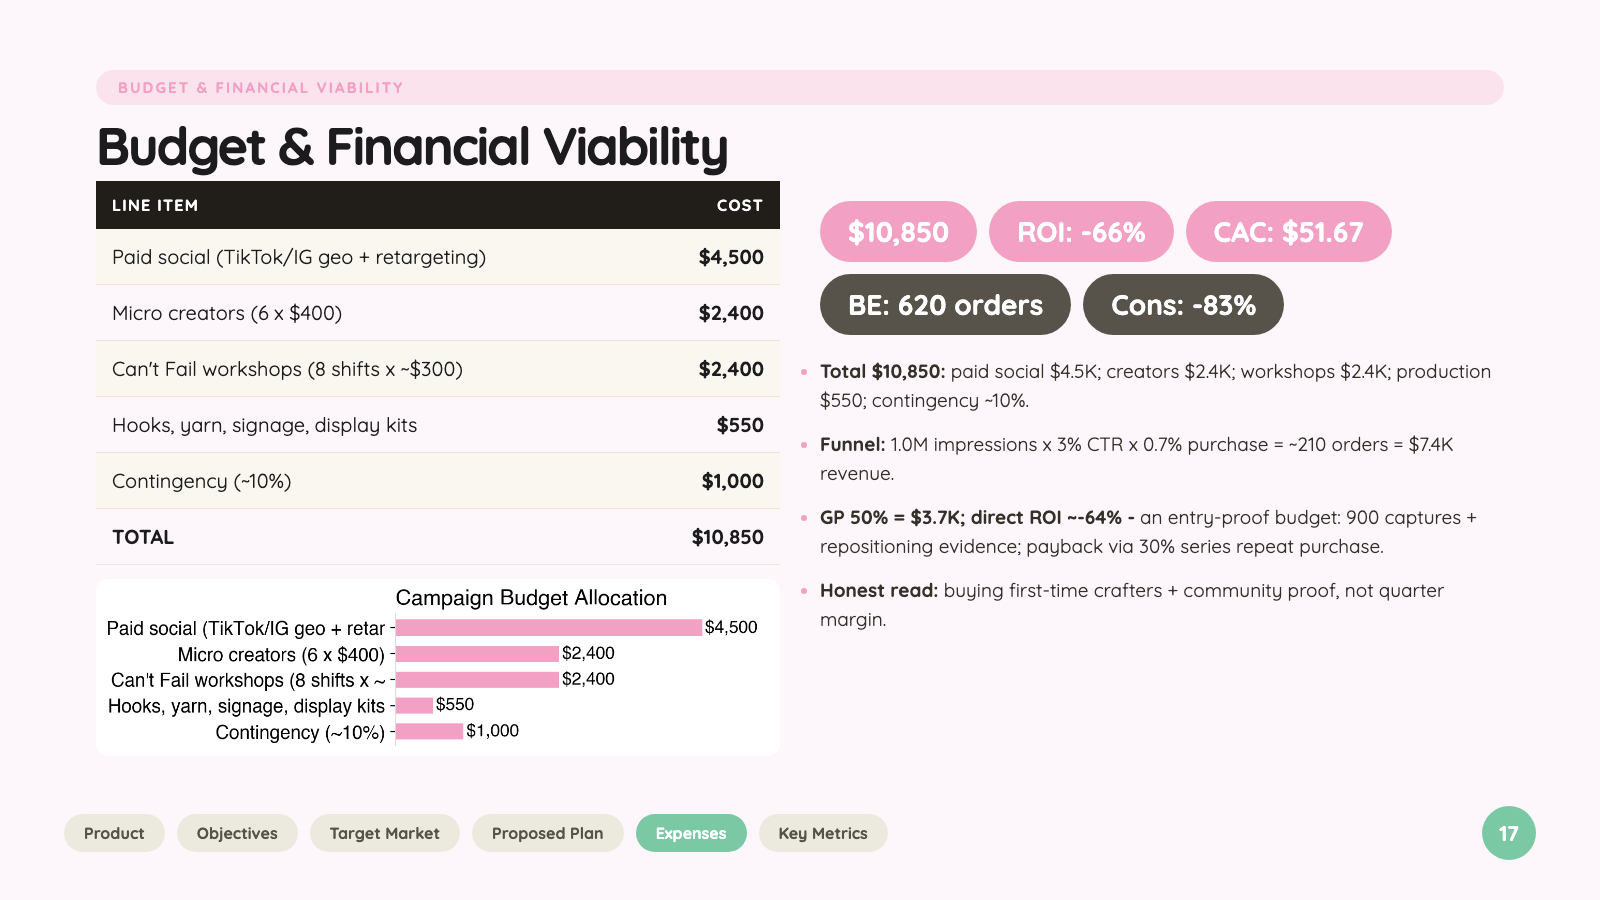
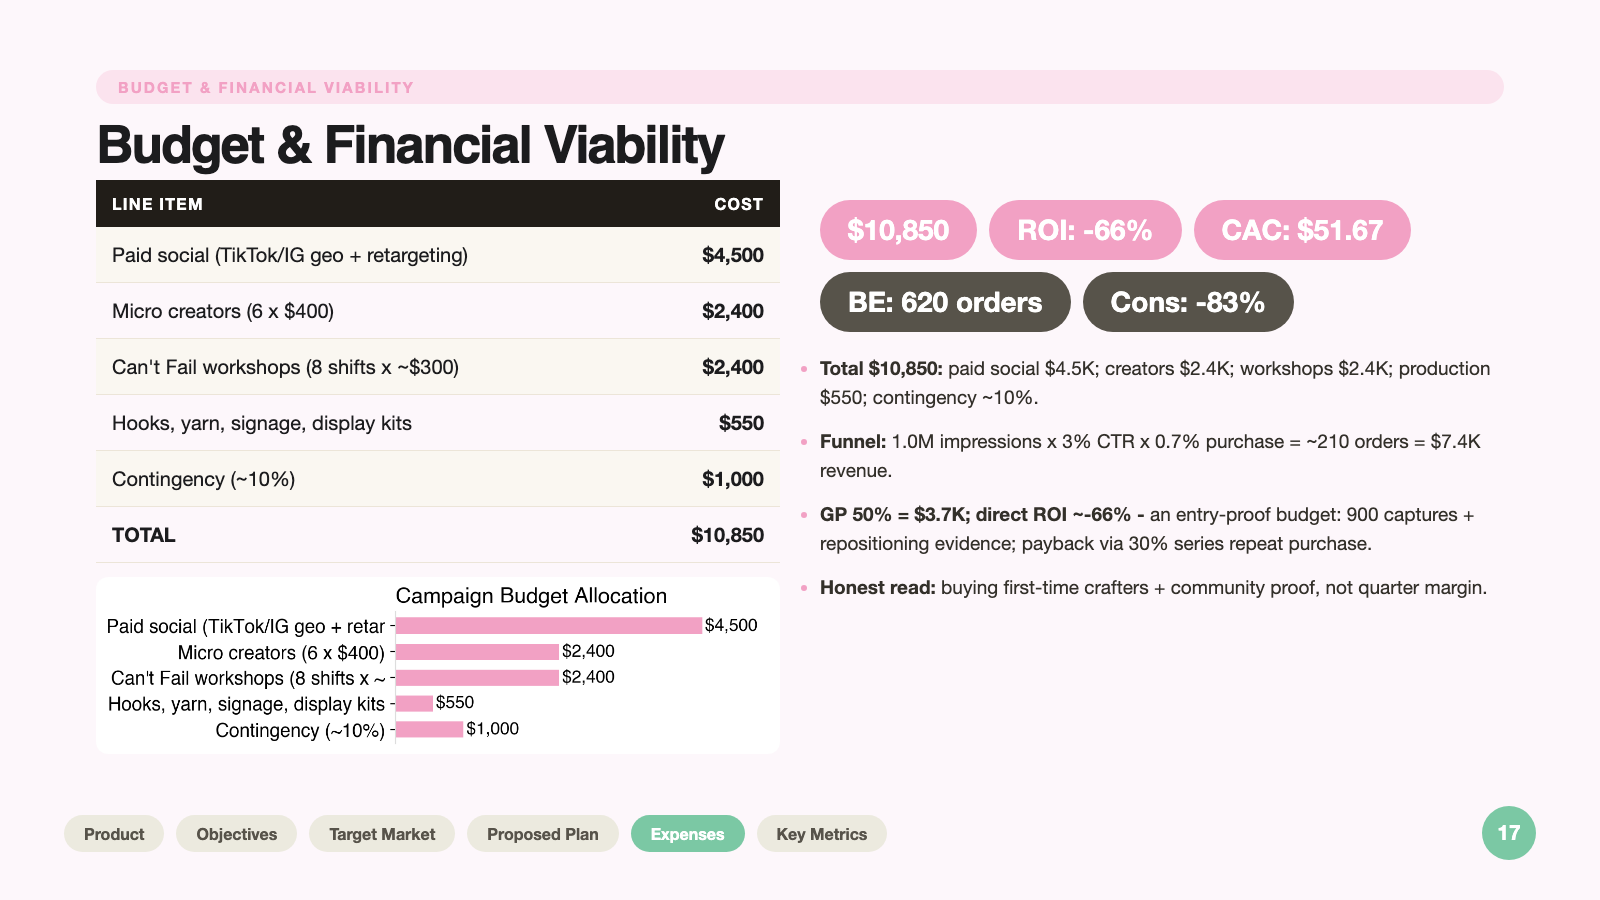
v21 grade fixes: 210 orders = $7.4K (not $74K), ROI -66% consistency, schedule compressed to day-45

diff --git a/pipeline/runs/v21/imcp/p16.html b/pipeline/runs/v21/imcp/p16.html
@@ -68,4 +68,4 @@ img.vis{max-width:100%;max-height:560px;border-radius:16px;object-fit:contain;bo
 .tag{display:inline-block;background:var(--brand);color:#fff;border-radius:999px;padding:5px 14px;font-size:14px;font-weight:800;letter-spacing:.06em}
 .mono{font-family:'SF Mono',Menlo,monospace}
 </style></head>
-<body class="style-soft"><div class="page" style="background:#fdf7fb"><div class="frame"></div><div class="kick">45-DAY SCHEDULE</div><div class="h1">45-Day Schedule: Can&#x27;t Fail Club</div><div class="tbar"></div><table class="tb" style="margin-top:20px"><tr><th>PROGRAM</th><th>WEEKS 1-7</th><th>OWNER</th></tr><tr><td style="font-weight:700">Can&#x27;t Fail Workshops</td><td><span style="display:inline-block;width:52px;height:26px;line-height:26px;text-align:center;border-radius:6px;background:var(--brand);color:#fff;font-size:14px;font-weight:700;margin-right:4px">1</span><span style="display:inline-block;width:52px;height:26px;line-height:26px;text-align:center;border-radius:6px;background:var(--brand);color:#fff;font-size:14px;font-weight:700;margin-right:4px">2</span><span style="display:inline-block;width:52px;height:26px;line-height:26px;text-align:center;border-radius:6px;background:var(--brand);color:#fff;font-size:14px;font-weight:700;margin-right:4px">3</span><span style="display:inline-block;width:52px;height:26px;line-height:26px;text-align:center;border-radius:6px;background:var(--brand);color:#fff;font-size:14px;font-weight:700;margin-right:4px">4</span><span style="display:inline-block;width:52px;height:26px;line-height:26px;text-align:center;border-radius:6px;background:var(--brand);color:#fff;font-size:14px;font-weight:700;margin-right:4px">5</span><span style="display:inline-block;width:52px;height:26px;line-height:26px;text-align:center;border-radius:6px;background:#efe9dd;color:#b3aa99;font-size:14px;margin-right:4px">6</span><span style="display:inline-block;width:52px;height:26px;line-height:26px;text-align:center;border-radius:6px;background:#efe9dd;color:#b3aa99;font-size:14px;margin-right:4px">7</span></td><td style="font-size:17px">Nino (field)</td></tr><tr><td style="font-weight:700">Stitch School</td><td><span style="display:inline-block;width:52px;height:26px;line-height:26px;text-align:center;border-radius:6px;background:var(--brand);color:#fff;font-size:14px;font-weight:700;margin-right:4px">1</span><span style="display:inline-block;width:52px;height:26px;line-height:26px;text-align:center;border-radius:6px;background:var(--brand);color:#fff;font-size:14px;font-weight:700;margin-right:4px">2</span><span style="display:inline-block;width:52px;height:26px;line-height:26px;text-align:center;border-radius:6px;background:var(--brand);color:#fff;font-size:14px;font-weight:700;margin-right:4px">3</span><span style="display:inline-block;width:52px;height:26px;line-height:26px;text-align:center;border-radius:6px;background:var(--brand);color:#fff;font-size:14px;font-weight:700;margin-right:4px">4</span><span style="display:inline-block;width:52px;height:26px;line-height:26px;text-align:center;border-radius:6px;background:var(--brand);color:#fff;font-size:14px;font-weight:700;margin-right:4px">5</span><span style="display:inline-block;width:52px;height:26px;line-height:26px;text-align:center;border-radius:6px;background:var(--brand);color:#fff;font-size:14px;font-weight:700;margin-right:4px">6</span><span style="display:inline-block;width:52px;height:26px;line-height:26px;text-align:center;border-radius:6px;background:#efe9dd;color:#b3aa99;font-size:14px;margin-right:4px">7</span></td><td style="font-size:17px">Santhosh (social)</td></tr><tr><td style="font-weight:700">Show Your Wooble</td><td><span style="display:inline-block;width:52px;height:26px;line-height:26px;text-align:center;border-radius:6px;background:#efe9dd;color:#b3aa99;font-size:14px;margin-right:4px">1</span><span style="display:inline-block;width:52px;height:26px;line-height:26px;text-align:center;border-radius:6px;background:var(--brand);color:#fff;font-size:14px;font-weight:700;margin-right:4px">2</span><span style="display:inline-block;width:52px;height:26px;line-height:26px;text-align:center;border-radius:6px;background:var(--brand);color:#fff;font-size:14px;font-weight:700;margin-right:4px">3</span><span style="display:inline-block;width:52px;height:26px;line-height:26px;text-align:center;border-radius:6px;background:var(--brand);color:#fff;font-size:14px;font-weight:700;margin-right:4px">4</span><span style="display:inline-block;width:52px;height:26px;line-height:26px;text-align:center;border-radius:6px;background:var(--brand);color:#fff;font-size:14px;font-weight:700;margin-right:4px">5</span><span style="display:inline-block;width:52px;height:26px;line-height:26px;text-align:center;border-radius:6px;background:var(--brand);color:#fff;font-size:14px;font-weight:700;margin-right:4px">6</span><span style="display:inline-block;width:52px;height:26px;line-height:26px;text-align:center;border-radius:6px;background:#efe9dd;color:#b3aa99;font-size:14px;margin-right:4px">7</span></td><td style="font-size:17px">Santhosh (social)</td></tr><tr><td style="font-weight:700">Gift a Wooble</td><td><span style="display:inline-block;width:52px;height:26px;line-height:26px;text-align:center;border-radius:6px;background:#efe9dd;color:#b3aa99;font-size:14px;margin-right:4px">1</span><span style="display:inline-block;width:52px;height:26px;line-height:26px;text-align:center;border-radius:6px;background:#efe9dd;color:#b3aa99;font-size:14px;margin-right:4px">2</span><span style="display:inline-block;width:52px;height:26px;line-height:26px;text-align:center;border-radius:6px;background:var(--brand);color:#fff;font-size:14px;font-weight:700;margin-right:4px">3</span><span style="display:inline-block;width:52px;height:26px;line-height:26px;text-align:center;border-radius:6px;background:var(--brand);color:#fff;font-size:14px;font-weight:700;margin-right:4px">4</span><span style="display:inline-block;width:52px;height:26px;line-height:26px;text-align:center;border-radius:6px;background:var(--brand);color:#fff;font-size:14px;font-weight:700;margin-right:4px">5</span><span style="display:inline-block;width:52px;height:26px;line-height:26px;text-align:center;border-radius:6px;background:var(--brand);color:#fff;font-size:14px;font-weight:700;margin-right:4px">6</span><span style="display:inline-block;width:52px;height:26px;line-height:26px;text-align:center;border-radius:6px;background:#efe9dd;color:#b3aa99;font-size:14px;margin-right:4px">7</span></td><td style="font-size:17px">Rafsan (web)</td></tr></table><div class="body" style="margin-top:20px;font-size:20px"><li class=""><b>Pre-work:</b> venue bookings, kit stock, creator outreach | W1: Stitch School + workshop 1 live.</li><li class=""><b>W2-W3:</b> workshops 2-5; #cantfailclub UGC opens; retargeting on scanners.</li><li class=""><b>W4-W5:</b> Gift a Wooble push; workshops 6-8; UGC features.</li><li class=""><b>W6-W7:</b> last-chance SMS; post-survey; read vs holdout.</li></div><div class="navbar"><div class="navpills"><span class="navp">Product</span><span class="navp">Objectives</span><span class="navp">Target Market</span><span class="navp on">Proposed Plan</span><span class="navp">Expenses</span><span class="navp">Key Metrics</span></div><div class="pgcirc">16</div></div></div></body></html>
+<body class="style-soft"><div class="page" style="background:#fdf7fb"><div class="frame"></div><div class="kick">45-DAY SCHEDULE</div><div class="h1">45-Day Schedule: Can&#x27;t Fail Club</div><div class="tbar"></div><table class="tb" style="margin-top:20px"><tr><th>PROGRAM</th><th>WEEKS 1-7</th><th>OWNER</th></tr><tr><td style="font-weight:700">Can&#x27;t Fail Workshops</td><td><span style="display:inline-block;width:52px;height:26px;line-height:26px;text-align:center;border-radius:6px;background:var(--brand);color:#fff;font-size:14px;font-weight:700;margin-right:4px">1</span><span style="display:inline-block;width:52px;height:26px;line-height:26px;text-align:center;border-radius:6px;background:var(--brand);color:#fff;font-size:14px;font-weight:700;margin-right:4px">2</span><span style="display:inline-block;width:52px;height:26px;line-height:26px;text-align:center;border-radius:6px;background:var(--brand);color:#fff;font-size:14px;font-weight:700;margin-right:4px">3</span><span style="display:inline-block;width:52px;height:26px;line-height:26px;text-align:center;border-radius:6px;background:var(--brand);color:#fff;font-size:14px;font-weight:700;margin-right:4px">4</span><span style="display:inline-block;width:52px;height:26px;line-height:26px;text-align:center;border-radius:6px;background:var(--brand);color:#fff;font-size:14px;font-weight:700;margin-right:4px">5</span><span style="display:inline-block;width:52px;height:26px;line-height:26px;text-align:center;border-radius:6px;background:#efe9dd;color:#b3aa99;font-size:14px;margin-right:4px">6</span><span style="display:inline-block;width:52px;height:26px;line-height:26px;text-align:center;border-radius:6px;background:#efe9dd;color:#b3aa99;font-size:14px;margin-right:4px">7</span></td><td style="font-size:17px">Nino (field)</td></tr><tr><td style="font-weight:700">Stitch School</td><td><span style="display:inline-block;width:52px;height:26px;line-height:26px;text-align:center;border-radius:6px;background:var(--brand);color:#fff;font-size:14px;font-weight:700;margin-right:4px">1</span><span style="display:inline-block;width:52px;height:26px;line-height:26px;text-align:center;border-radius:6px;background:var(--brand);color:#fff;font-size:14px;font-weight:700;margin-right:4px">2</span><span style="display:inline-block;width:52px;height:26px;line-height:26px;text-align:center;border-radius:6px;background:var(--brand);color:#fff;font-size:14px;font-weight:700;margin-right:4px">3</span><span style="display:inline-block;width:52px;height:26px;line-height:26px;text-align:center;border-radius:6px;background:var(--brand);color:#fff;font-size:14px;font-weight:700;margin-right:4px">4</span><span style="display:inline-block;width:52px;height:26px;line-height:26px;text-align:center;border-radius:6px;background:var(--brand);color:#fff;font-size:14px;font-weight:700;margin-right:4px">5</span><span style="display:inline-block;width:52px;height:26px;line-height:26px;text-align:center;border-radius:6px;background:var(--brand);color:#fff;font-size:14px;font-weight:700;margin-right:4px">6</span><span style="display:inline-block;width:52px;height:26px;line-height:26px;text-align:center;border-radius:6px;background:#efe9dd;color:#b3aa99;font-size:14px;margin-right:4px">7</span></td><td style="font-size:17px">Santhosh (social)</td></tr><tr><td style="font-weight:700">Show Your Wooble</td><td><span style="display:inline-block;width:52px;height:26px;line-height:26px;text-align:center;border-radius:6px;background:#efe9dd;color:#b3aa99;font-size:14px;margin-right:4px">1</span><span style="display:inline-block;width:52px;height:26px;line-height:26px;text-align:center;border-radius:6px;background:var(--brand);color:#fff;font-size:14px;font-weight:700;margin-right:4px">2</span><span style="display:inline-block;width:52px;height:26px;line-height:26px;text-align:center;border-radius:6px;background:var(--brand);color:#fff;font-size:14px;font-weight:700;margin-right:4px">3</span><span style="display:inline-block;width:52px;height:26px;line-height:26px;text-align:center;border-radius:6px;background:var(--brand);color:#fff;font-size:14px;font-weight:700;margin-right:4px">4</span><span style="display:inline-block;width:52px;height:26px;line-height:26px;text-align:center;border-radius:6px;background:var(--brand);color:#fff;font-size:14px;font-weight:700;margin-right:4px">5</span><span style="display:inline-block;width:52px;height:26px;line-height:26px;text-align:center;border-radius:6px;background:var(--brand);color:#fff;font-size:14px;font-weight:700;margin-right:4px">6</span><span style="display:inline-block;width:52px;height:26px;line-height:26px;text-align:center;border-radius:6px;background:#efe9dd;color:#b3aa99;font-size:14px;margin-right:4px">7</span></td><td style="font-size:17px">Santhosh (social)</td></tr><tr><td style="font-weight:700">Gift a Wooble</td><td><span style="display:inline-block;width:52px;height:26px;line-height:26px;text-align:center;border-radius:6px;background:#efe9dd;color:#b3aa99;font-size:14px;margin-right:4px">1</span><span style="display:inline-block;width:52px;height:26px;line-height:26px;text-align:center;border-radius:6px;background:#efe9dd;color:#b3aa99;font-size:14px;margin-right:4px">2</span><span style="display:inline-block;width:52px;height:26px;line-height:26px;text-align:center;border-radius:6px;background:var(--brand);color:#fff;font-size:14px;font-weight:700;margin-right:4px">3</span><span style="display:inline-block;width:52px;height:26px;line-height:26px;text-align:center;border-radius:6px;background:var(--brand);color:#fff;font-size:14px;font-weight:700;margin-right:4px">4</span><span style="display:inline-block;width:52px;height:26px;line-height:26px;text-align:center;border-radius:6px;background:var(--brand);color:#fff;font-size:14px;font-weight:700;margin-right:4px">5</span><span style="display:inline-block;width:52px;height:26px;line-height:26px;text-align:center;border-radius:6px;background:var(--brand);color:#fff;font-size:14px;font-weight:700;margin-right:4px">6</span><span style="display:inline-block;width:52px;height:26px;line-height:26px;text-align:center;border-radius:6px;background:#efe9dd;color:#b3aa99;font-size:14px;margin-right:4px">7</span></td><td style="font-size:17px">Rafsan (web)</td></tr></table><div class="body" style="margin-top:20px;font-size:20px"><li class=""><b>Pre-work:</b> venue bookings, kit stock, creator outreach | W1: Stitch School + workshop 1 live.</li><li class=""><b>W2-W3:</b> workshops 2-5; #cantfailclub UGC opens; retargeting on scanners.</li><li class=""><b>W4-W5:</b> Gift a Wooble push; workshops 6-8; UGC features.</li><li class=""><b>W6 (day 45 close):</b> last-chance SMS; post-survey; read vs holdout.</li></div><div class="navbar"><div class="navpills"><span class="navp">Product</span><span class="navp">Objectives</span><span class="navp">Target Market</span><span class="navp on">Proposed Plan</span><span class="navp">Expenses</span><span class="navp">Key Metrics</span></div><div class="pgcirc">16</div></div></div></body></html>

diff --git a/pipeline/runs/v21/imcp/p17.html b/pipeline/runs/v21/imcp/p17.html
@@ -68,4 +68,4 @@ img.vis{max-width:100%;max-height:560px;border-radius:16px;object-fit:contain;bo
 .tag{display:inline-block;background:var(--brand);color:#fff;border-radius:999px;padding:5px 14px;font-size:14px;font-weight:800;letter-spacing:.06em}
 .mono{font-family:'SF Mono',Menlo,monospace}
 </style></head>
-<body class="style-soft"><div class="page" style="background:#fdf7fb"><div class="frame"></div><div class="kick">BUDGET &amp; FINANCIAL VIABILITY</div><div class="h1">Budget &amp; Financial Viability</div><div class="tbar"></div><div class="cols2"><div class="col"><table class="tb"><tr><th>LINE ITEM</th><th style="text-align:right">COST</th></tr><tr><td>Paid social (TikTok/IG geo + retargeting)</td><td style="text-align:right;font-weight:800">$4,500</td></tr><tr><td>Micro creators (6 x $400)</td><td style="text-align:right;font-weight:800">$2,400</td></tr><tr><td>Can&#x27;t Fail workshops (8 shifts x ~$300)</td><td style="text-align:right;font-weight:800">$2,400</td></tr><tr><td>Hooks, yarn, signage, display kits</td><td style="text-align:right;font-weight:800">$550</td></tr><tr><td>Contingency (~10%)</td><td style="text-align:right;font-weight:800">$1,000</td></tr><tr><td style="font-weight:900">TOTAL</td><td style="text-align:right;font-weight:900">$10,850</td></tr></table><img src="file:///Users/pranav/Desktop/DevinProjects/imcp-product-finder/pipeline/runs/v21/imcp/charts/budget.png" style="width:100%;max-height:330px;object-fit:contain;border-radius:12px;margin-top:14px"></div><div class="col"><div style="margin-top:14px"><span class="statp">$10,850</span><span class="statp">ROI: -66%</span><span class="statp">CAC: $51.67</span><br><span class="statp" style="background:#57534a">BE: 620 orders</span><span class="statp" style="background:#57534a">Cons: -83%</span></div><div class="body" style="margin-top:16px;font-size:19px"><li class=""><b>Total $10,850:</b> paid social $4.5K; creators $2.4K; workshops $2.4K; production $550; contingency ~10%.</li><li class=""><b>Funnel:</b> 1.0M impressions x 3% CTR x 0.7% purchase = ~210 orders = $7.4K revenue.</li><li class=""><b>GP 50% = $3.7K; direct ROI ~-64% -</b> an entry-proof budget: 900 captures + repositioning evidence; payback via 30% series repeat purchase.</li><li class=""><b>Honest read:</b> buying first-time crafters + community proof, not quarter margin.</li></div></div></div><div class="navbar"><div class="navpills"><span class="navp">Product</span><span class="navp">Objectives</span><span class="navp">Target Market</span><span class="navp">Proposed Plan</span><span class="navp on">Expenses</span><span class="navp">Key Metrics</span></div><div class="pgcirc">17</div></div></div></body></html>
+<body class="style-soft"><div class="page" style="background:#fdf7fb"><div class="frame"></div><div class="kick">BUDGET &amp; FINANCIAL VIABILITY</div><div class="h1">Budget &amp; Financial Viability</div><div class="tbar"></div><div class="cols2"><div class="col"><table class="tb"><tr><th>LINE ITEM</th><th style="text-align:right">COST</th></tr><tr><td>Paid social (TikTok/IG geo + retargeting)</td><td style="text-align:right;font-weight:800">$4,500</td></tr><tr><td>Micro creators (6 x $400)</td><td style="text-align:right;font-weight:800">$2,400</td></tr><tr><td>Can&#x27;t Fail workshops (8 shifts x ~$300)</td><td style="text-align:right;font-weight:800">$2,400</td></tr><tr><td>Hooks, yarn, signage, display kits</td><td style="text-align:right;font-weight:800">$550</td></tr><tr><td>Contingency (~10%)</td><td style="text-align:right;font-weight:800">$1,000</td></tr><tr><td style="font-weight:900">TOTAL</td><td style="text-align:right;font-weight:900">$10,850</td></tr></table><img src="file:///Users/pranav/Desktop/DevinProjects/imcp-product-finder/pipeline/runs/v21/imcp/charts/budget.png" style="width:100%;max-height:330px;object-fit:contain;border-radius:12px;margin-top:14px"></div><div class="col"><div style="margin-top:14px"><span class="statp">$10,850</span><span class="statp">ROI: -66%</span><span class="statp">CAC: $51.67</span><br><span class="statp" style="background:#57534a">BE: 620 orders</span><span class="statp" style="background:#57534a">Cons: -83%</span></div><div class="body" style="margin-top:16px;font-size:19px"><li class=""><b>Total $10,850:</b> paid social $4.5K; creators $2.4K; workshops $2.4K; production $550; contingency ~10%.</li><li class=""><b>Funnel:</b> 1.0M impressions x 3% CTR x 0.7% purchase = ~210 orders = $7.4K revenue.</li><li class=""><b>GP 50% = $3.7K; direct ROI ~-66% -</b> an entry-proof budget: 900 captures + repositioning evidence; payback via 30% series repeat purchase.</li><li class=""><b>Honest read:</b> buying first-time crafters + community proof, not quarter margin.</li></div></div></div><div class="navbar"><div class="navpills"><span class="navp">Product</span><span class="navp">Objectives</span><span class="navp">Target Market</span><span class="navp">Proposed Plan</span><span class="navp on">Expenses</span><span class="navp">Key Metrics</span></div><div class="pgcirc">17</div></div></div></body></html>
